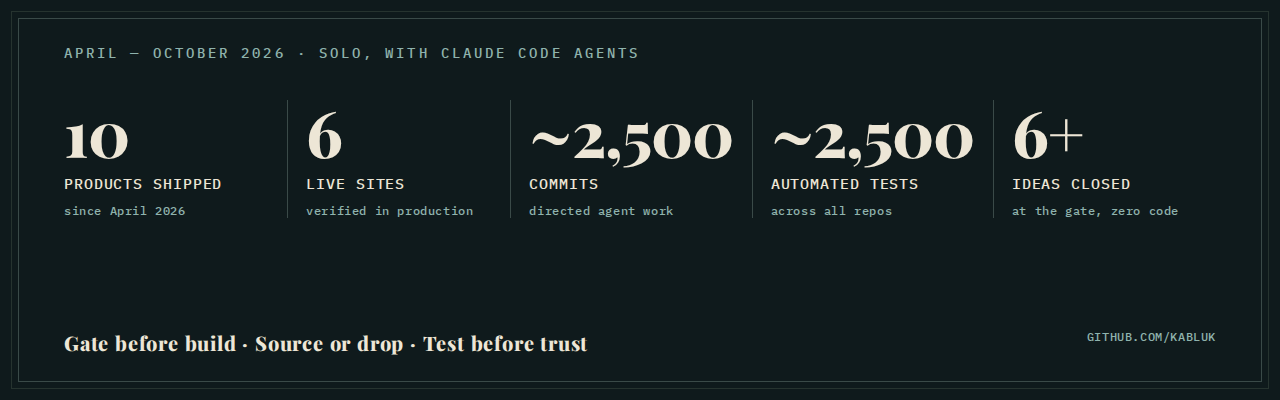
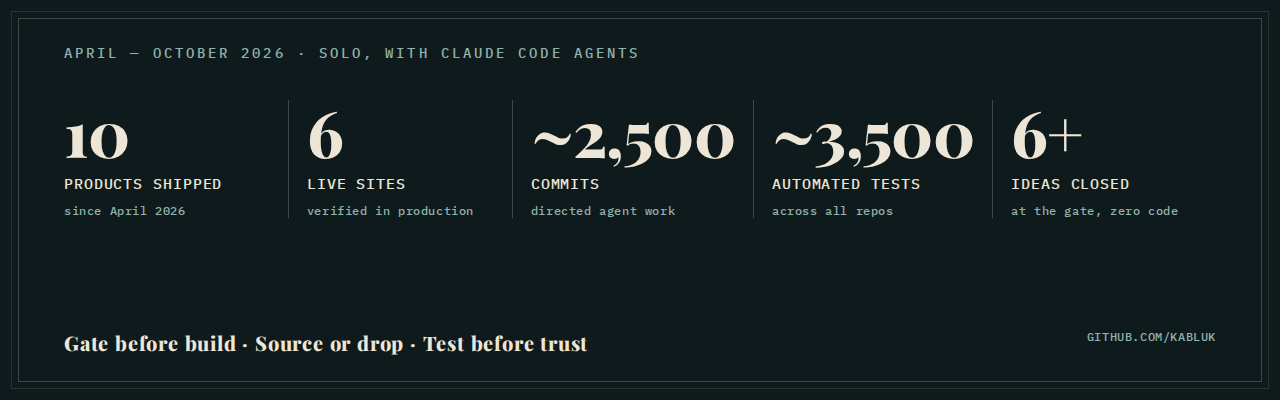
Profile numbers from real test runs: ~3,500 tests; homeequitymath 117 calculators + 32 converters, 1,631 tests; AccessAtlas 884; DetNav ~470; IV Index live, 178 tests
Claude-Session: https://claude.ai/code/session_01X6sACesWwRAYsjv873DV4F

diff --git a/README.md b/README.md
@@ -7,7 +7,7 @@ then make the agents prove their work with sources, tests and build gates.
 
 Open to early-career AI engineering and AI ops roles · remote, US
 
-<p align="center"><img src="assets/stats.png" alt="10 products, 6 live sites, ~2,500 commits, ~2,500 tests, 6+ ideas closed at the gate (April to October 2026)" width="100%"></p>
+<p align="center"><img src="assets/stats.png" alt="10 products, 6 live sites, ~2,500 commits, ~3,500 tests, 6+ ideas closed at the gate (April to October 2026)" width="100%"></p>
 
 ## How I work
 
@@ -35,9 +35,9 @@ flowchart LR
 ## In production (closed source)
 
 - **[CarrierTruth](https://carriertruth.com)**: 4.48M US trucking carriers from FMCSA open data. Daily snapshot-and-diff ETL on GitHub Actions + Cloudflare D1, 107K change events tracked.
-- **[AccessAtlas](https://verscala.com)**: accessibility-auditor directory and site scanner. Headless Chromium + axe-core on Cloudflare, Claude Haiku explains each finding, PDF fix plans. 574 agencies, 794 tests.
-- **[DetNav](https://detnav.com)**: multilingual public-information service, ~1,089 pages in 4 languages, Stripe and WebAuthn, CI checks for translation parity. ~400 tests.
-- **[homeequitymath](https://homeequitymath.com)**: 19 home-equity calculators; lender rates re-verified against source pages and hidden when stale. 245 tests.
+- **[AccessAtlas](https://verscala.com)**: accessibility-auditor directory and site scanner. Headless Chromium + axe-core on Cloudflare, Claude Haiku explains each finding, PDF fix plans. 574 agencies, 884 tests.
+- **[DetNav](https://detnav.com)**: multilingual public-information service, ~1,089 pages in 4 languages, Stripe and WebAuthn, CI checks for translation parity. ~470 tests.
+- **[homeequitymath](https://homeequitymath.com)**: 117 calculators and 32 unit converters (home equity, mortgage, home projects); lender rates re-verified against source pages and hidden when stale. 1,631 tests.
 - **[IV Index](https://ivindex.com)**: mobile IV therapy directory where every price carries a source and a date. 192 providers, 238 pages.
 - **[IMAGE Permanent Makeup](https://imagepmu.com)** (client site): studio site on Cloudflare Workers with a 96-frame scroll-driven hero, six service videos and a Cal.com booking proxy. 7 tests.
 - **FollowLens** (MVP in progress): cross-network follower tracker, Next.js + Supabase, Apify pipeline with retries and a plan-aware scheduler.
@@ -65,7 +65,7 @@ Case studies with screenshots, decisions and numbers: **[cases/](cases/)**
 
 ## Numbers I'm proud of
 
-- **10** products and **6** live sites since April 2026, ~2,500 commits, ~2,500 automated tests
+- **10** products and **6** live sites since April 2026, ~2,500 commits, ~3,500 automated tests
 - **6+** ideas closed at the gate before a single line of code
 - **63** tests on an open-source LLM pipeline where the model can only fail safely
 - **1.4 s** sitemap response over 4.48M rows, down from HTTP 500

diff --git a/cases/README.md b/cases/README.md
@@ -5,10 +5,10 @@ Five products I built solo in 2026 by directing Claude Code agents. Each page co
 | Product | What | Live | Headline number |
 |---|---|---|---|
 | [CarrierTruth](carriertruth.md) | US trucking carrier registry with a daily change history | [carriertruth.com](https://carriertruth.com) | 4,484,464 carriers, 107,026 change events |
-| [AccessAtlas](accessatlas.md) | Accessibility auditor directory plus a headless-browser site scanner | [verscala.com](https://verscala.com) | 574 agencies, 19 countries, 794 tests |
+| [AccessAtlas](accessatlas.md) | Accessibility auditor directory plus a headless-browser site scanner | [verscala.com](https://verscala.com) | 574 agencies, 19 countries, 884 tests |
 | [DetNav](detnav.md) | Multilingual information for families of people held in US immigration detention | [detnav.com](https://detnav.com) | ~1,089 pages in 4 languages |
-| [homeequitymath](homeequitymath.md) | Home-equity calculators with dated, re-verified lender rates | [homeequitymath.com](https://homeequitymath.com) | 19 calculators, 20 lender rates, 245 tests |
-| [IV Index](ivindex.md) | Mobile IV therapy directory where every price has a source | soft launch | 192 providers, 46 tests + 5 build gates |
+| [homeequitymath](homeequitymath.md) | Home-equity calculators with dated, re-verified lender rates | [homeequitymath.com](https://homeequitymath.com) | 117 calculators and 32 unit converters, 20 lender rates, 1,631 tests |
+| [IV Index](ivindex.md) | Mobile IV therapy directory where every price has a source | [ivindex.com](https://ivindex.com) | 192 providers, 178 tests + 5 build gates |
 
 **Gate before build · Source or drop · Test before trust**
 

diff --git a/cases/homeequitymath.md b/cases/homeequitymath.md
@@ -10,7 +10,7 @@ US homeowners comparing a HELOC, a home-equity loan or a cash-out refinance usua
 
 ## What I built
 
-- 19 calculators in two groups: borrowing against a home (HELOC, home-equity loan, cash-out refinance, recast, ARM, points, break-even and others) and project cost estimates (renovation, ADU, addition, basement, pool, solar loan).
+- 117 calculators and 32 unit converters in 20 category hubs (count from the live sitemap, 2026-10-26): borrowing against a home (HELOC, home-equity loan, cash-out refinance, recast, ARM, points, break-even and others), mortgages, and home-project estimates (deck, fence, concrete, roof, driveway, electrical, heating and cooling, pool, ADU, basement and more).
 - Two rate tables with 20 lender rows. Each row stores the source URL and the date it was observed.
 - A freshness policy in code: rows older than 14 days are hidden, not shown with a warning. If coverage drops below target, the rate page returns to `noindex` and leaves the sitemap instead of sitting in search with an empty table.
 - A neutral sort: by APR by default, with no field for affiliate status, so the sort cannot favour a payer.

diff --git a/cases/ivindex.md b/cases/ivindex.md
@@ -2,7 +2,7 @@
 
 ![screenshot](img/ivindex.png)
 
-**Live:** https://ivindex.com (pre-launch, `noindex`) · **Stack:** Node build from SQLite, static HTML and CSS, Cloudflare Workers, D1, MapLibre · **Built:** Aug–Oct 2026 · **Status:** pre-launch; site complete on the production domain, closed to search engines
+**Live:** https://ivindex.com · **Stack:** Node build from SQLite, static HTML and CSS, Cloudflare Workers, D1, MapLibre · **Built:** Aug–Oct 2026 · **Status:** live and open to search engines (noindex lifted in October 2026)
 
 ## The problem
 

diff --git a/cases/accessatlas.md b/cases/accessatlas.md
@@ -41,7 +41,7 @@ flowchart LR
 |---|---|
 | Agencies in the catalog | 574 |
 | Countries | 19 |
-| Automated tests | 794 (worker 522, src 210, scripts 62) |
+| Automated tests | 884 (worker and scripts 629, src 255; run 2026-10-26) |
 | EN 301 549 web criteria with an automated check | 31 of 50 |
 | Free checkers | 10 |
 | Decisions logged | 187 |
